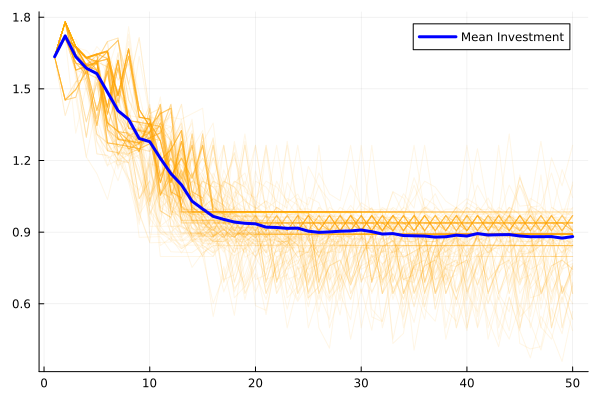
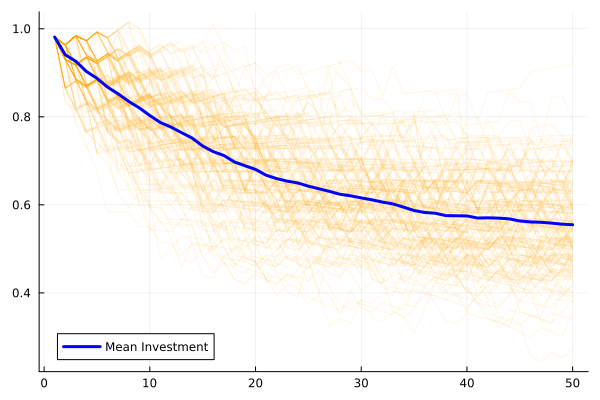
finalized PS4

diff --git a/ProblemSets/PS4/PS4.tex b/ProblemSets/PS4/PS4.tex
@@ -574,6 +574,34 @@ The capital policy function is increasing in TFP shock.
 \end{figure}
 
 
+\subsection*{Solution to Question 4.5}
+The long-run distributions of capital, consumption, investment, and output are depicted as below.
+\begin{figure}[htbp]
+  \centering
+  \includegraphics[width=0.99\textwidth]{PS4_computation/images/longrun_distributions.png}
+\end{figure}
+
+\subsection*{Solution to Question 4.6}
+In my simulation, the simulated long-run average capital is higher than the steady-state because of precautionary saving motive.
+In fact, the gap between the simulated mean and the steady-state values increase as the level of risk-aversion increases.
+\begin{figure}[htbp]
+  \centering
+  \includegraphics[width=0.5\textwidth]{PS4_computation/images/precautionary_saving.png}
+\end{figure}
+
+\subsection*{Solution to Questions 4.7 and 4.8}
+Following figures depict the impulse responses of capital, investment, and consumption under a positive one-time TFP shock.
+The impulse response of capital is hump-shaped because the TFP decreases gradually.
+\begin{figure}[htbp]
+  \centering
+  \includegraphics[width=0.45\textwidth]{PS4_computation/images/avg_capital_impulse_response.png}
+  \includegraphics[width=0.45\textwidth]{PS4_computation/images/avg_investment_impulse_response.png} \\
+  \includegraphics[width=0.45\textwidth]{PS4_computation/images/avg_consumption_impulse_response.png}
+  \includegraphics[width=0.45\textwidth]{PS4_computation/images/avg_output_impulse_response.png}
+  \caption{Impulse Responses of Capital, Investment, Consumption, and Output under a Positive TFP Shock}
+\end{figure}
+
+
 %% =========== %% ========= %%
 \bibliography{../bib/references.bib}
 
